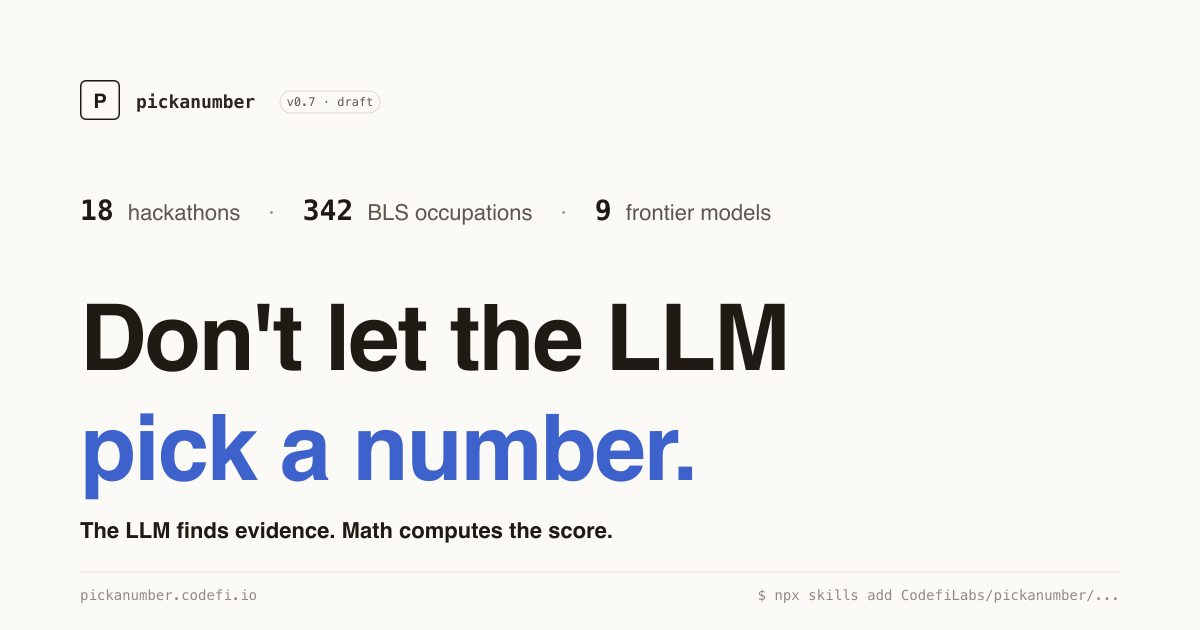
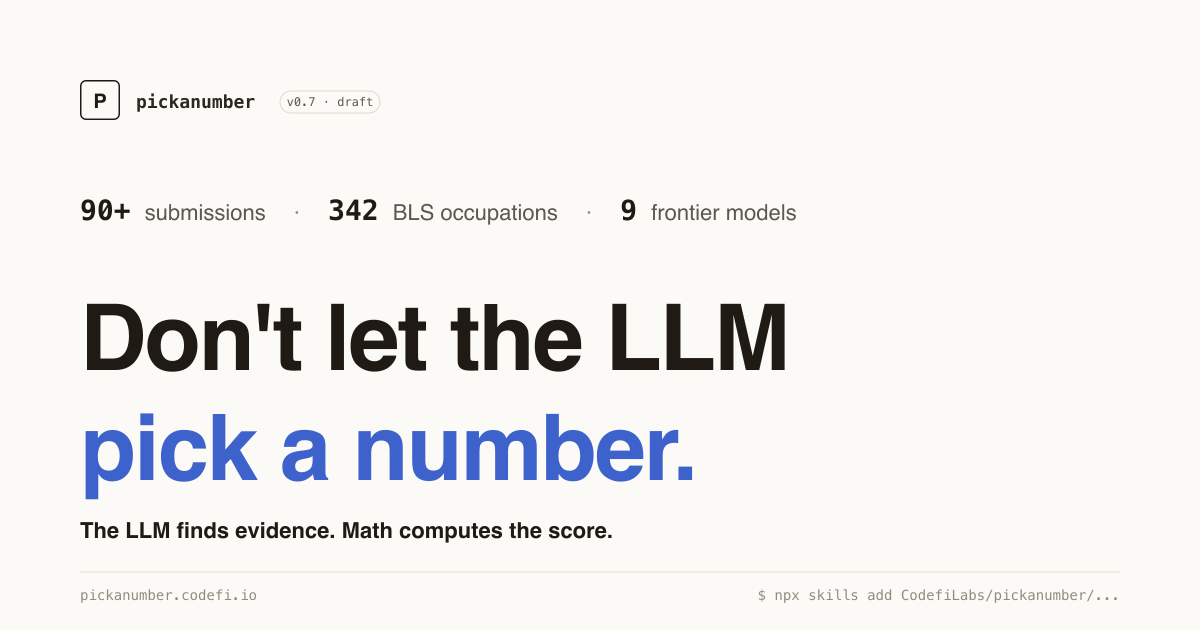
Correct calibration receipts: 90+ submissions across 3 hackathons (was 18 hackathons)
The 18-hackathons number conflated 'submissions across hackathons'
with 'distinct events.' Three events; 90+ submitted codebases and
demo videos across them. The honest receipt is the submission count
(scale of the calibration data) — the event count lives as a
secondary detail.

- Hero receipts strip + OG image: '90+ submissions · 342 BLS
  occupations · 9 frontier models'.
- Problem section, paper section description, paper sidebar
  'Calibrated on' field, footer credit line: all updated to '90+
  hackathon submissions across three events (codebases and demo
  videos)'.
- README.md, PRODUCT.md voice cues: same correction.
- Footer 'Built by Kevin Kirchner at CodefiLabs' → 'at Codefi' to
  match the codefi · codefiworks.com link shipped earlier.

Changed region(s): [[0.2467, 0.3016, 0.4625, 0.3619], [0.4933, 0.3016, 0.6783, 0.3619], [0.0617, 0.3016, 0.2158, 0.3619]]

diff --git a/src/routes/+page.svelte b/src/routes/+page.svelte
@@ -177,7 +177,7 @@
 		<div class="mt-16 max-w-3xl lg:mt-24">
 			<!-- Receipts strip — the calibration numbers are the trust anchor -->
 			<div class="flex flex-wrap items-baseline gap-x-5 gap-y-1 text-sm text-ink-soft">
-				<span><span class="tabular font-mono text-base font-semibold text-ink-strong">18</span> hackathons</span>
+				<span><span class="tabular font-mono text-base font-semibold text-ink-strong">90+</span> submissions</span>
 				<span class="text-ink-faint" aria-hidden="true">·</span>
 				<span><span class="tabular font-mono text-base font-semibold text-ink-strong">342</span> BLS occupations</span>
 				<span class="text-ink-faint" aria-hidden="true">·</span>
@@ -255,7 +255,7 @@
 					LLMs anchor to 7-out-of-10.
 				</h2>
 				<p class="mt-4 text-ink-soft">
-					Across 18 hackathon submissions and 342 BLS occupations, models picked numbers in a tight
+					Across 90+ hackathon submissions (codebases and demo videos, three events) and 342 BLS occupations, models picked numbers in a tight
 					band centered on 7. Variance was high run-to-run, but the central tendency stayed
 					locked. Calibration was decoration, not signal.
 				</p>
@@ -542,9 +542,9 @@
 			<div>
 				<h2 class="text-section font-semibold text-ink-strong">The paper.</h2>
 				<p class="mt-4 text-ink-soft">
-					<em>Don't Let the LLM Pick a Number</em> — methodology paper. Calibrated on 18 hackathon
-					submissions and 342 BLS occupations across 9 models. Includes the full derivation, ablations,
-					and the impeccable rescoring case study.
+					<em>Don't Let the LLM Pick a Number</em> — methodology paper. Calibrated on 90+ hackathon
+					submissions (codebases and demo videos, three events) and 342 BLS occupations across 9
+					models. Includes the full derivation, ablations, and the impeccable rescoring case study.
 				</p>
 			</div>
 			<div class="rounded-lg border border-rule bg-paper p-6 lg:p-8">
@@ -556,7 +556,7 @@
 					<dt class="text-ink-faint">Length</dt>
 					<dd class="text-ink">~9k words + appendices</dd>
 					<dt class="text-ink-faint">Calibrated on</dt>
-					<dd class="text-ink">18 hackathons, 342 BLS occupations</dd>
+					<dd class="text-ink">90+ hackathon submissions (3 events), 342 BLS occupations</dd>
 					<dt class="text-ink-faint">Models tested</dt>
 					<dd class="text-ink">9 frontier models</dd>
 					<dt class="text-ink-faint">License</dt>
@@ -636,10 +636,11 @@
 		</div>
 
 		<p class="mt-8 max-w-2xl text-xs leading-relaxed text-ink-faint">
-			Methodology calibrated on 18 hackathon submissions and 342 BLS occupations across 9 frontier
-			models. Worked rescoring case studies on <span class="font-mono">pbakaus/impeccable</span> and
+			Methodology calibrated on 90+ hackathon submissions across three events (codebases and demo
+			videos) and 342 BLS occupations across 9 frontier models. Worked rescoring case studies on
+			<span class="font-mono">pbakaus/impeccable</span> and
 			<span class="font-mono">trycua/cua-bench</span>. Pairwise diagnostic pattern borrows from
-			<span class="font-mono">lechmazur/writing-style</span>. Built by Kevin Kirchner at CodefiLabs.
+			<span class="font-mono">lechmazur/writing-style</span>. Built by Kevin Kirchner at Codefi.
 		</p>
 	</div>
 </footer>

diff --git a/README.md b/README.md
@@ -4,7 +4,7 @@
 
 **Pickanumber** is a methodology, a paper, and three installable skills for evidence-based LLM scoring. Ask an LLM to score something on a 0–10 scale and you'll get a 7. Ask again, you'll get a 7. The model isn't grading; it's anchoring. This repo fixes the problem the same way every time: **the LLM finds evidence; math computes the score.**
 
-The methodology was calibrated on 18 hackathon submissions and 342 BLS occupations across 9 frontier models. The paper is in [`paper/paper.md`](./paper/paper.md). Worked rescoring case studies are in [`examples/`](./examples/).
+The methodology was calibrated on 90+ hackathon submissions (codebases and demo videos, three events) and 342 BLS occupations across 9 frontier models. The paper is in [`paper/paper.md`](./paper/paper.md). Worked rescoring case studies are in [`examples/`](./examples/).
 
 ## Quickstart
 
@@ -111,7 +111,7 @@ Pick the smallest one that fits.
 ## Credits
 
 - **Methodology** — *Don't Let the LLM Pick a Number*, Kevin Kirchner / CodefiLabs
-- **Calibration data** — 18 hackathon submissions (St. Joseph + Joplin events), 342 BLS occupations
+- **Calibration data** — 90+ hackathon submissions across three events (codebases + demo videos), 342 BLS occupations
 - **Sister project** — [CodefiLabs/mybench](https://github.com/CodefiLabs/mybench) — same formula, applied to the personal-benchmark interview pattern
 - **Skill ecosystem** — [skills.sh](https://skills.sh)
 

diff --git a/PRODUCT.md b/PRODUCT.md
@@ -24,7 +24,7 @@ Success is `skills add` invocations, not pageviews. Everything that doesn't help
 
 Three words: **rigorous, candid, hands-on.**
 
-Voice cues: short declarative sentences. No marketing softeners. Code samples and formulas are first-class, not buried. Show the receipts (18 hackathons, 342 BLS occupations, 9 models). Don't apologize for being a draft.
+Voice cues: short declarative sentences. No marketing softeners. Code samples and formulas are first-class, not buried. Show the receipts (90+ submissions across 3 hackathons, 342 BLS occupations, 9 models). Don't apologize for being a draft.
 
 ## Anti-references
 
